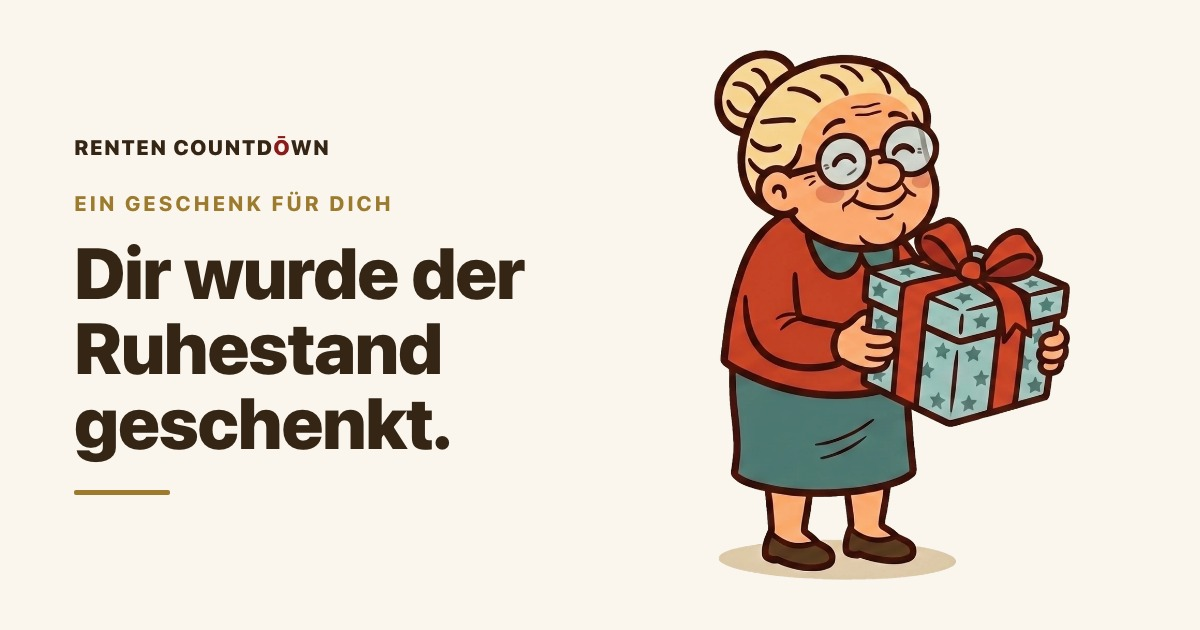
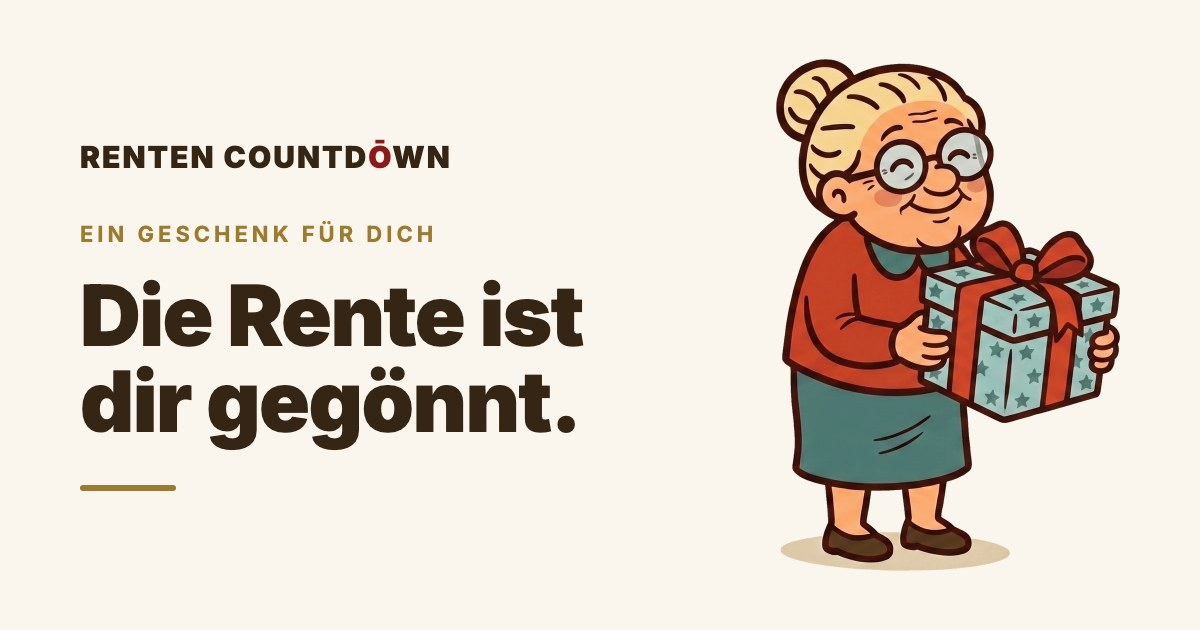
fix(site): OG-Vorschau der Geschenkseite auf die neue Headline ziehen
og:title, og:image:alt und das neu gerenderte og-verschenken.jpg tragen jetzt
"Die Rente ist dir gegönnt" statt der alten "Dir wurde der Ruhestand geschenkt"
— damit passt die WhatsApp-/Social-Share-Karte wieder zur sichtbaren Seite.
Bild headless mit den App-Tokens (Inter, Creme, Oma-mit-Geschenk) gerendert.

Changed region(s): [[0.5858, 0.0603, 0.9558, 0.9349], [0.0617, 0.3016, 0.4933, 0.8143], [0.0617, 0.2111, 0.4008, 0.2714]]

diff --git a/docs/verschenken.html b/docs/verschenken.html
@@ -13,13 +13,13 @@
   <meta property="og:type" content="website">
   <meta property="og:locale" content="de_DE">
   <meta property="og:site_name" content="Renten Countdown">
-  <meta property="og:title" content="Dir wurde der Ruhestand geschenkt">
+  <meta property="og:title" content="Die Rente ist dir gegönnt">
   <meta property="og:description" content="Jemand findet, du bist reif für die Couch. Der ehrlichste Countdown bis zur Rente — Turbo-Oma inklusive.">
   <meta property="og:url" content="https://traja-projects.github.io/Renten-Countdown/verschenken.html">
   <meta property="og:image" content="https://traja-projects.github.io/Renten-Countdown/assets/og-verschenken.jpg">
   <meta property="og:image:width" content="1200">
   <meta property="og:image:height" content="630">
-  <meta property="og:image:alt" content="Die Turbo-Oma hält ein Geschenk. Titel: Dir wurde der Ruhestand geschenkt.">
+  <meta property="og:image:alt" content="Die Turbo-Oma hält ein Geschenk. Titel: Die Rente ist dir gegönnt.">
   <meta name="twitter:card" content="summary_large_image">
 
   <style>